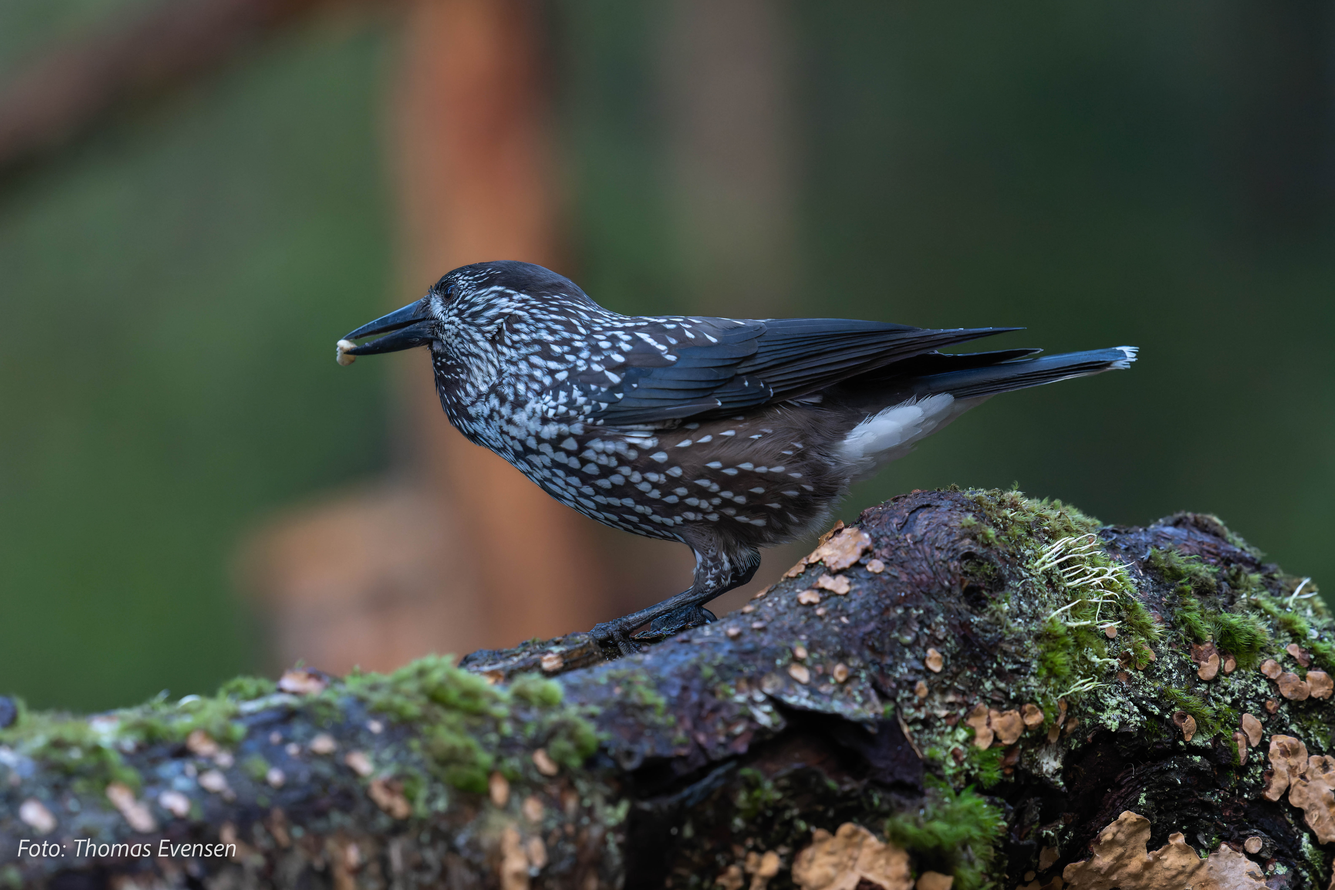
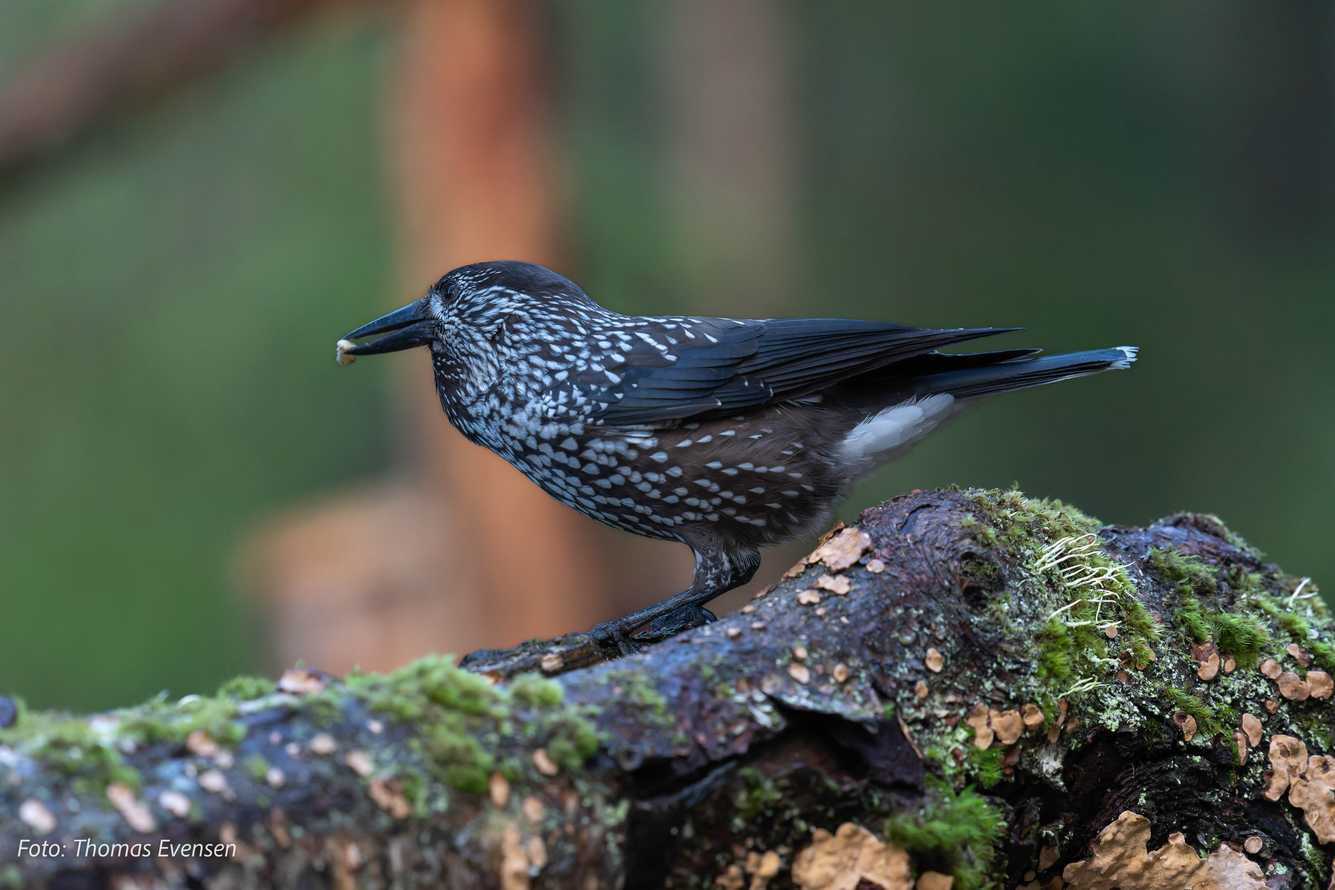
update

diff --git a/content/posts/Nottekraake.md b/content/posts/Nottekraake.md
@@ -14,6 +14,6 @@ By click on a photo you can enlarge and browse through all photos in this page b
 
 In Norwegian: [Nøttekråke – Wikipedia](https://no.wikipedia.org/wiki/Nøttekråke).
 
-{{< image src="/images/DSC08611-ARW_DxO_DeepPRIME.jpg"  position="center" style="border-radius: 8px;" >}}
+{{< image src="/images/DSC08702-ARW_DxO_DeepPRIME.jpg"  position="center" style="border-radius: 8px;" >}}
 
 {{< image src="/images/DSC08352-ARW_DxO_DeepPRIME.jpg"  position="center" style="border-radius: 8px;" >}}
